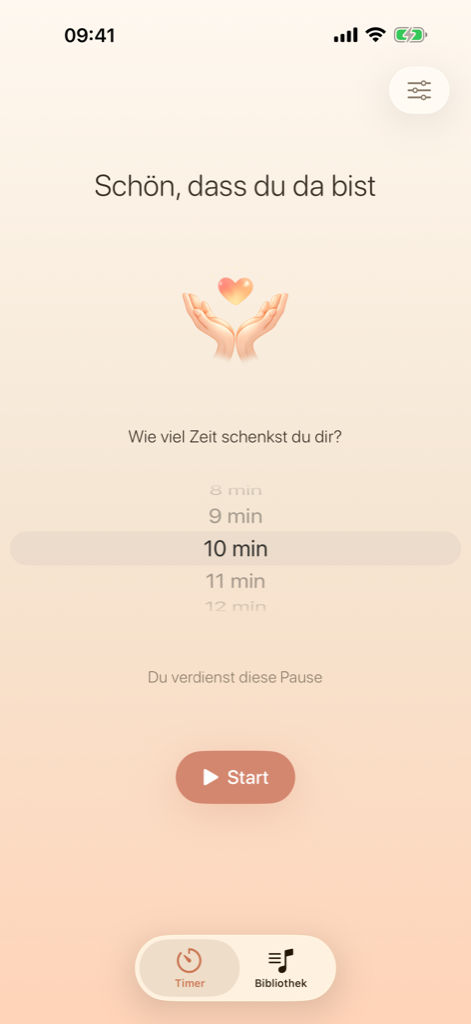
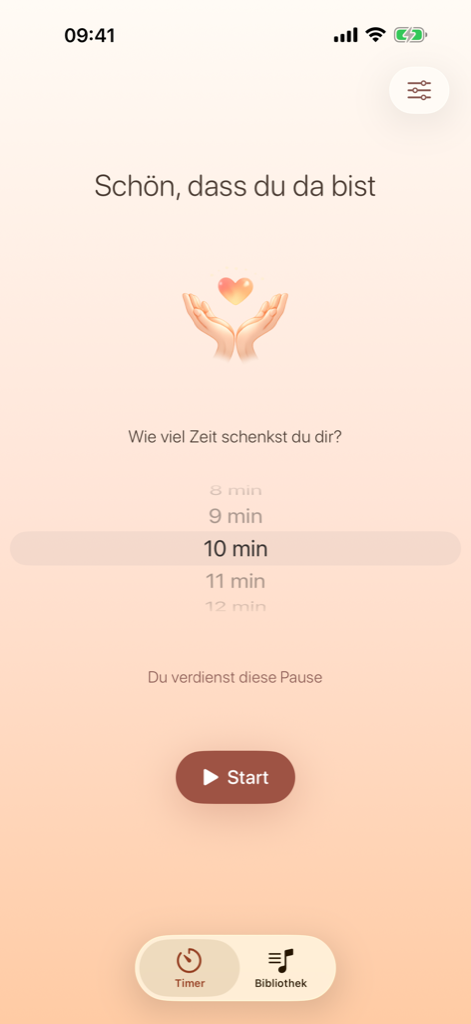
chore(ios): Prepare release v1.10.0

Changed region(s): [[0.3567, 0.7188, 0.6242, 0.8125], [0.3567, 0.9062, 0.4459, 0.9688]]

diff --git a/ios/StillMomentUITests/ScreenshotTests.swift b/ios/StillMomentUITests/ScreenshotTests.swift
@@ -36,6 +36,14 @@ final class ScreenshotTests: XCTestCase {
         // Disable preparation time for faster screenshots (timer starts immediately)
         self.app.launchArguments += ["-DisablePreparation"]
 
+        // Theme override for screenshot variants (e.g., SCREENSHOT_THEME=moon SCREENSHOT_MODE=dark)
+        if let theme = ProcessInfo.processInfo.environment["SCREENSHOT_THEME"], !theme.isEmpty {
+            self.app.launchArguments += ["-selectedTheme", theme]
+        }
+        if let mode = ProcessInfo.processInfo.environment["SCREENSHOT_MODE"], !mode.isEmpty {
+            self.app.launchArguments += ["-appearanceMode", mode]
+        }
+
         self.app.launch()
 
         // Force portrait orientation
